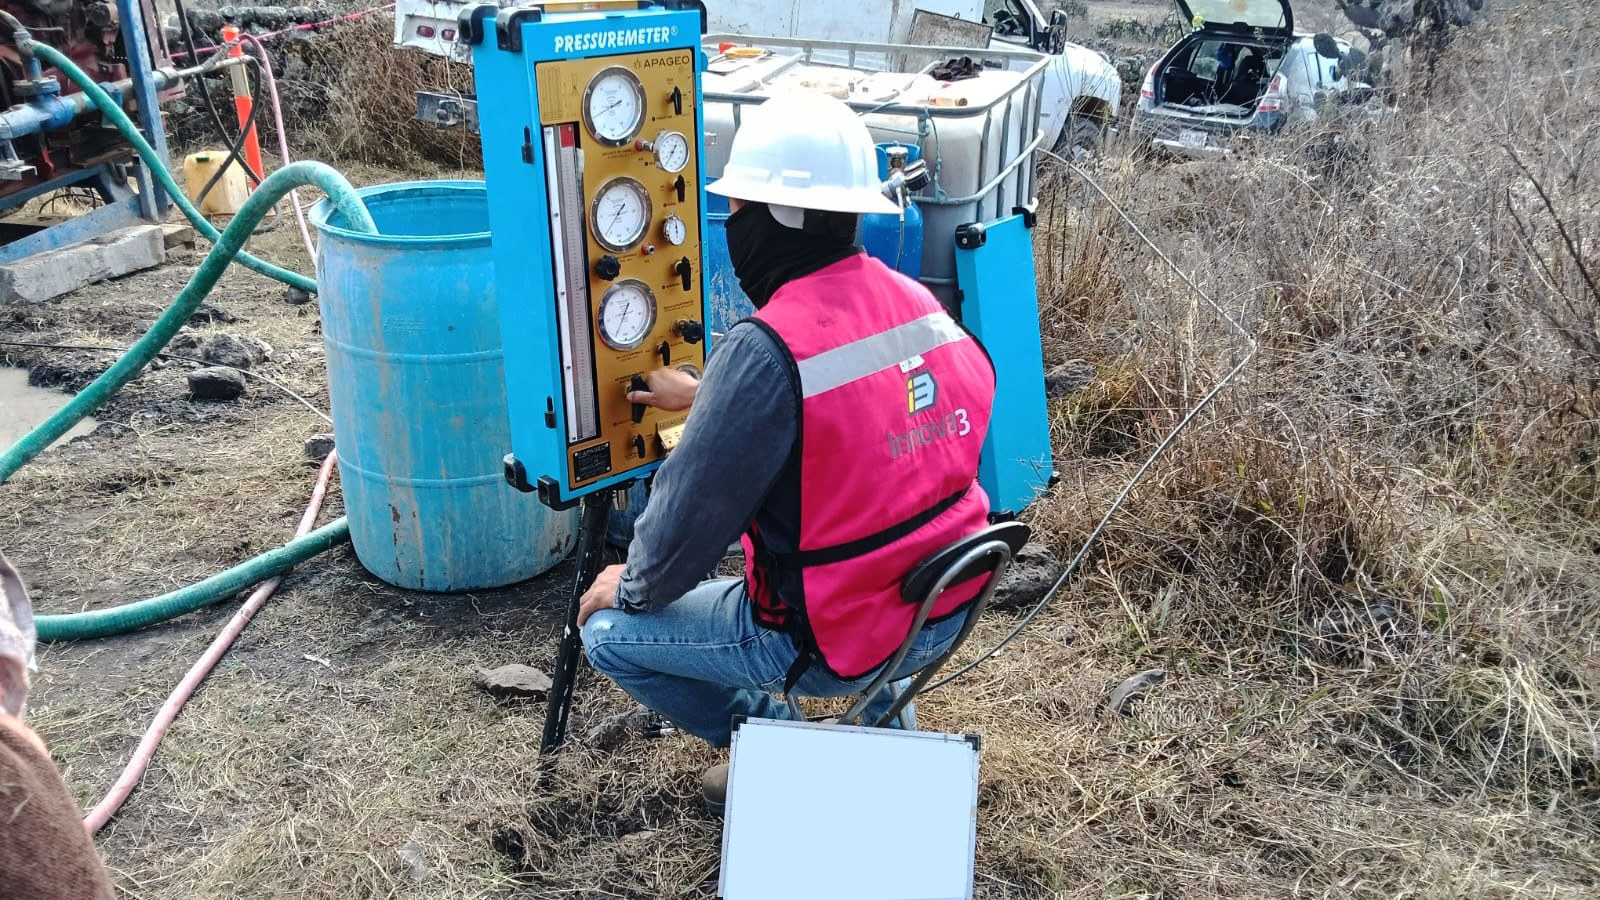
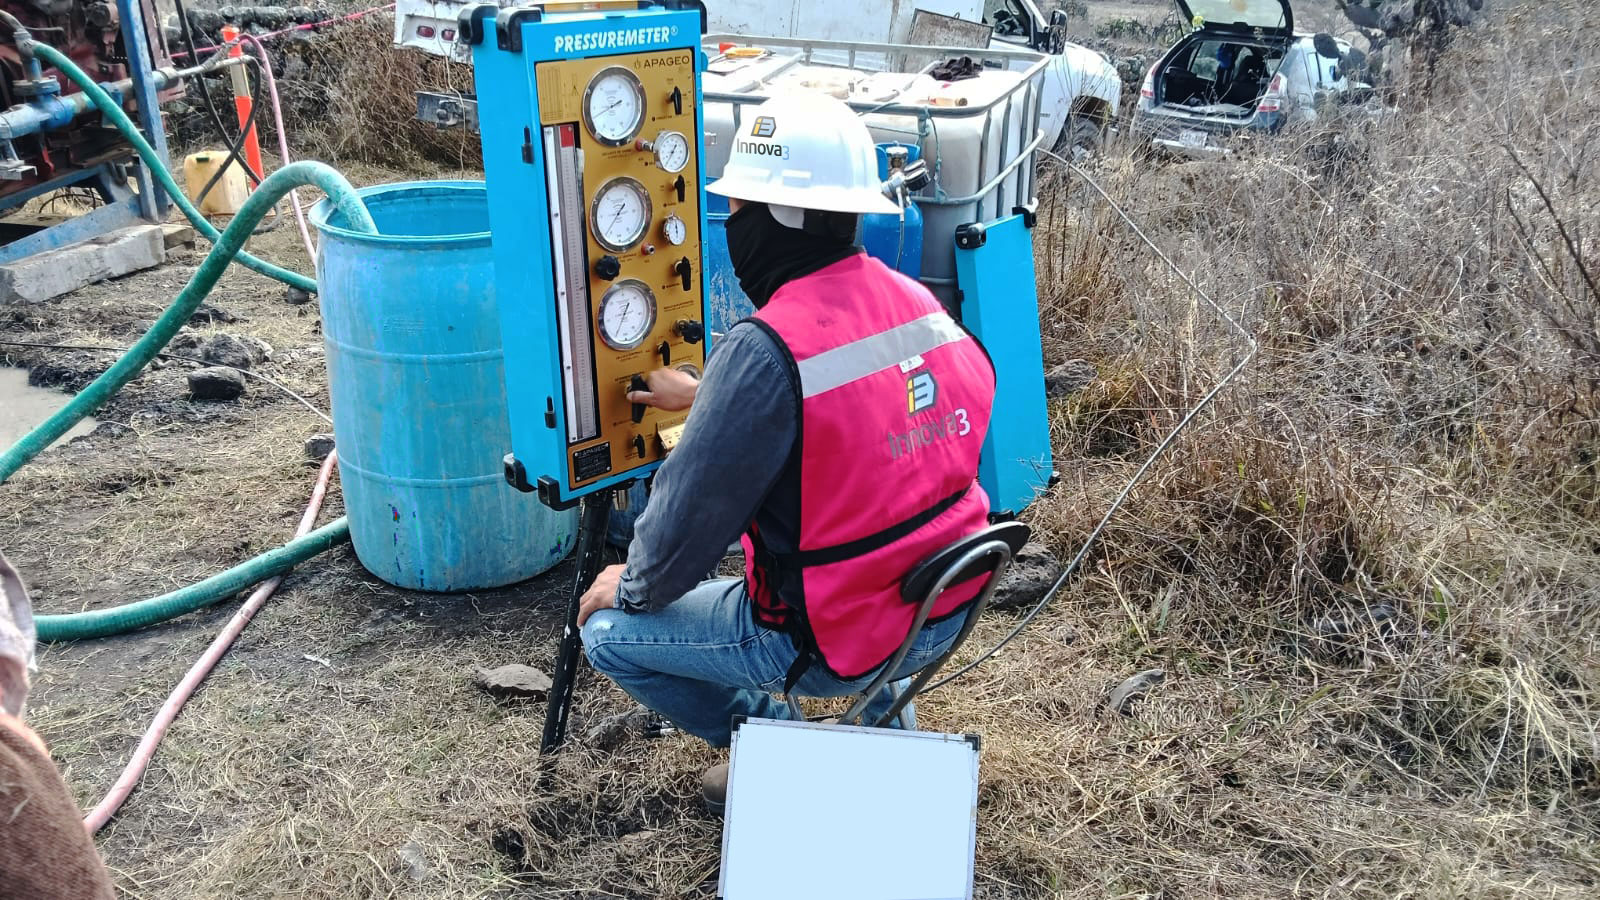
Cmabios E&P

Changed region(s): [[0.1875, 0.2489, 0.2812, 0.6533], [0.4688, 0.1244, 0.5, 0.1867], [0.3438, 0.56, 0.375, 0.6222]]

diff --git a/estudiosdeingenieria.html b/estudiosdeingenieria.html
@@ -72,7 +72,7 @@
       <div id="geofisica" class="tab-panel active">
         <div class="tab-panel-text">
           <h3 class="h3-servicios-pag">ESTUDIOS DE GEOFÍSICA</h3>
-          <p class="p-servicios-pag">
+          <p class="p-servicios">
             Estudiamos las propiedades físicas del subsuelo sin necesidad de
             excavar mediante equipos especializados, obteniendo información
             valiosa sobre la composición, estructura y comportamiento del
@@ -147,8 +147,8 @@
                 </div>
                 <div class="img-equipo">
                   <img
-                    src="imágenes/MASW.jpg"
-                    alt="MASW"
+                    src="imágenes/masw2.jpg"
+                    alt="Análisis multicanal de ondas superficiales (MASW)"
                   />
                 </div>
               </div>
@@ -208,9 +208,7 @@
                 <p class="p-servicios-pag">
                   Obtén un perfil detallado del comportamiento sísmico del
                   subsuelo mediante mediciones realizadas dentro de una
-                  perforación. Es una de las técnicas más precisas para
-                  caracterizar el terreno y generar información confiable para
-                  proyectos de ingeniería y diseño estructural.
+                  perforación. 
                 </p>
                 <p class="p-servicios-pag">
                   Es una de las técnicas más precisas para caracterizar el
@@ -229,7 +227,7 @@
       <div id="geotecnia" class="tab-panel">
         <div class="tab-panel-text">
           <h3 class="h3-servicios-pag">ESTUDIOS DE GEOTECNIA</h3>
-          <p class="p-servicios-pag">
+          <p class="p-servicios">
             Analizamos las propiedades mecánicas del suelo y la roca para
             garantizar la seguridad y estabilidad de cualquier obra civil. A
             través de exploraciones de campo y ensayos de laboratorio,
@@ -383,7 +381,7 @@
       <div id="geologia" class="tab-panel">
         <div class="tab-panel-text">
           <h3 class="h3-servicios-pag">ESTUDIOS DE GEOLOGÍA</h3>
-          <p class="p-servicios-pag">
+          <p class="p-servicios">
             Estudiamos la composición, estructura e historia del terreno a
             través del reconocimiento de los materiales que conforman el
             subsuelo. Sus resultados son la base para comprender los riesgos
@@ -428,7 +426,7 @@
       <div id="hidrologia" class="tab-panel">
         <div class="tab-panel-text">
           <h3 class="h3-servicios-pag">ESTUDIOS DE HIDROLOGÍA</h3>
-          <p class="p-servicios-pag">
+          <p class="p-servicios">
             Estudiamos el comportamiento del agua en la superficie terrestre:
             cómo se concentra, fluye y se distribuye en una cuenca, aplicado en
             el diseño de obras de drenaje, la prevención de inundaciones y la
@@ -463,7 +461,7 @@
             <div class="equipo">
               <div class="img-equipo">
                 <img
-                  src="imágenes/Modelo de Inundacion.jpeg"
+                  src="imágenes/Modelo-de-Inundacion.jpg"
                   alt="Modelo de Inundación"
                 />
               </div>
@@ -490,7 +488,7 @@
       <div id="topografia" class="tab-panel">
         <div class="tab-panel-text">
           <h3 class="h3-servicios-pag">ESTUDIOS DE TOPOGRAFÍA</h3>
-          <p class="p-servicios-pag">
+          <p class="p-servicios">
             La topografía mide y representa con precisión la superficie
             terrestre para generar planos, modelos digitales y datos
             geoespaciales que sirven de base a cualquier proyecto de
@@ -609,12 +607,7 @@
           </div>
 
           <!-- GESTIÓN DE PAVIMENTOS AEROPORTUARIOS -->
-          <h3 class="h3-servicios-pag">GESTIÓN DE PAVIMENTOS AEROPORTUARIOS</h3>
-
-          <ul class="lista">
-            <li>Diseño de pavimentos</li>
-            <li>Gestión y mantenimiento de pavimentos en aeropuertos</li>
-          </ul>
+          <h3 class="h3-servicios-pag">DISEÑO DE PAVIMENTOS AEROPORTUARIOS</h3>
 
           <div class="equipo">
             <div class="img-equipo">
@@ -645,11 +638,6 @@
 
           <!-- GESTIÓN DE PAVIMENTOS CARRETEROS -->
           <h3 class="h3-servicios-pag">GESTIÓN DE PAVIMENTOS CARRETEROS</h3>
-
-          <ul class="lista">
-            <li>Diseño de pavimentos flexibles y rígidos</li>
-            <li>Proyecto ejecutivo</li>
-          </ul>
 
           <!-- HDM4 -->
           <div class="equipos-container">
@@ -684,8 +672,8 @@
           <div class="equipo">
             <div class="img-equipo">
               <img
-                src="imágenes/Deflectometro editado.png"
-                alt="Sondeo de Penetración Estándar"
+                src="imágenes/Deflectómetro de noche.jpg"
+                alt="Equipo de Deflexiones"
               />
             </div>
             <div class="texto-equipo-der">

diff --git a/styles/paginasdeservicios.css b/styles/paginasdeservicios.css
@@ -120,7 +120,8 @@
   color: #363735;
 }
 
-.p-servicios-pag {
+.p-servicios-pag,
+.p-servicios {
   font-family: "Avenir";
   font-weight: 300;
   font-size: 1.2rem;
@@ -132,6 +133,10 @@
   margin-bottom: 1.2rem;
 
   text-align: justify;
+}
+
+.p-servicios-pag {
+  max-width: 700px;
 }
 
 .gif {
@@ -180,7 +185,7 @@
 }
 
 .img-equipo-4 img {
-width: 600px;
+  width: 600px;
 }
 
 .iconos {
@@ -232,7 +237,7 @@ width: 600px;
 }
 
 .lista li {
- position: relative;
+  position: relative;
   padding-left: 2rem;
 }
 
@@ -296,7 +301,6 @@ width: 600px;
 
   z-index: 2;
 }
-
 
 /* For desktop */
 @media screen and (min-width: 1119px) {
@@ -417,7 +421,7 @@ width: 600px;
     margin: 2rem;
   }
 
-   .IMT-2 {
+  .IMT-2 {
     width: 100px;
 
     margin: 0 2rem;
@@ -505,54 +509,50 @@ width: 600px;
 
   /* LISTAS */
 
-.lista {
-  width: 65%;
-}
+  .lista {
+    width: 65%;
+  }
 
-.lista li {
-  line-height: 1.5;
-}
+  .lista li {
+    line-height: 1.5;
+  }
 
-/* CONTROL DE CALIDAD */
-.QC-trenes {
-  display: block;
-  margin-inline: auto;
-  max-width: 80%;
-  border-radius: 18px;
-}
+  /* CONTROL DE CALIDAD */
+  .QC-trenes {
+    display: block;
+    margin-inline: auto;
+    max-width: 80%;
+    border-radius: 18px;
+  }
 
-.contenedor-trenes {
-  position: relative;
-  margin: 0 auto;
+  .contenedor-trenes {
+    position: relative;
+    margin: 0 auto;
 
-  width: fit-content;
-}
+    width: fit-content;
+  }
 
-.contenedor-trenes::after {
-  content: "";
+  .contenedor-trenes::after {
+    content: "";
 
-  position: absolute;
+    position: absolute;
 
-  left: 50%;
-  transform: translateX(-50%);
+    left: 50%;
+    transform: translateX(-50%);
 
-  bottom: 0;
+    bottom: 0;
 
-  width: 80%;
-  height: 50%;
+    width: 80%;
+    height: 50%;
 
-  background: linear-gradient(
-    to top,
-    rgba(0, 0, 0, 0.80),
-    rgba(0, 0, 0, 0)
-  );
+    background: linear-gradient(to top, rgba(0, 0, 0, 0.8), rgba(0, 0, 0, 0));
 
-  border-radius: 0 0 18px 18px;
+    border-radius: 0 0 18px 18px;
 
-  pointer-events: none;
+    pointer-events: none;
 
-  z-index: 1;
-}
+    z-index: 1;
+  }
 }
 
 .boton-trenes {
@@ -568,9 +568,9 @@ width: 600px;
 }
 
 .boton-trenes:hover {
-    background: linear-gradient(to right, #0377a8, #3db3e3);
-    cursor: pointer;
-  }
+  background: linear-gradient(to right, #0377a8, #3db3e3);
+  cursor: pointer;
+}
 
 /* NAV MOBILE*/
 @media screen and (max-width: 1118px) {
